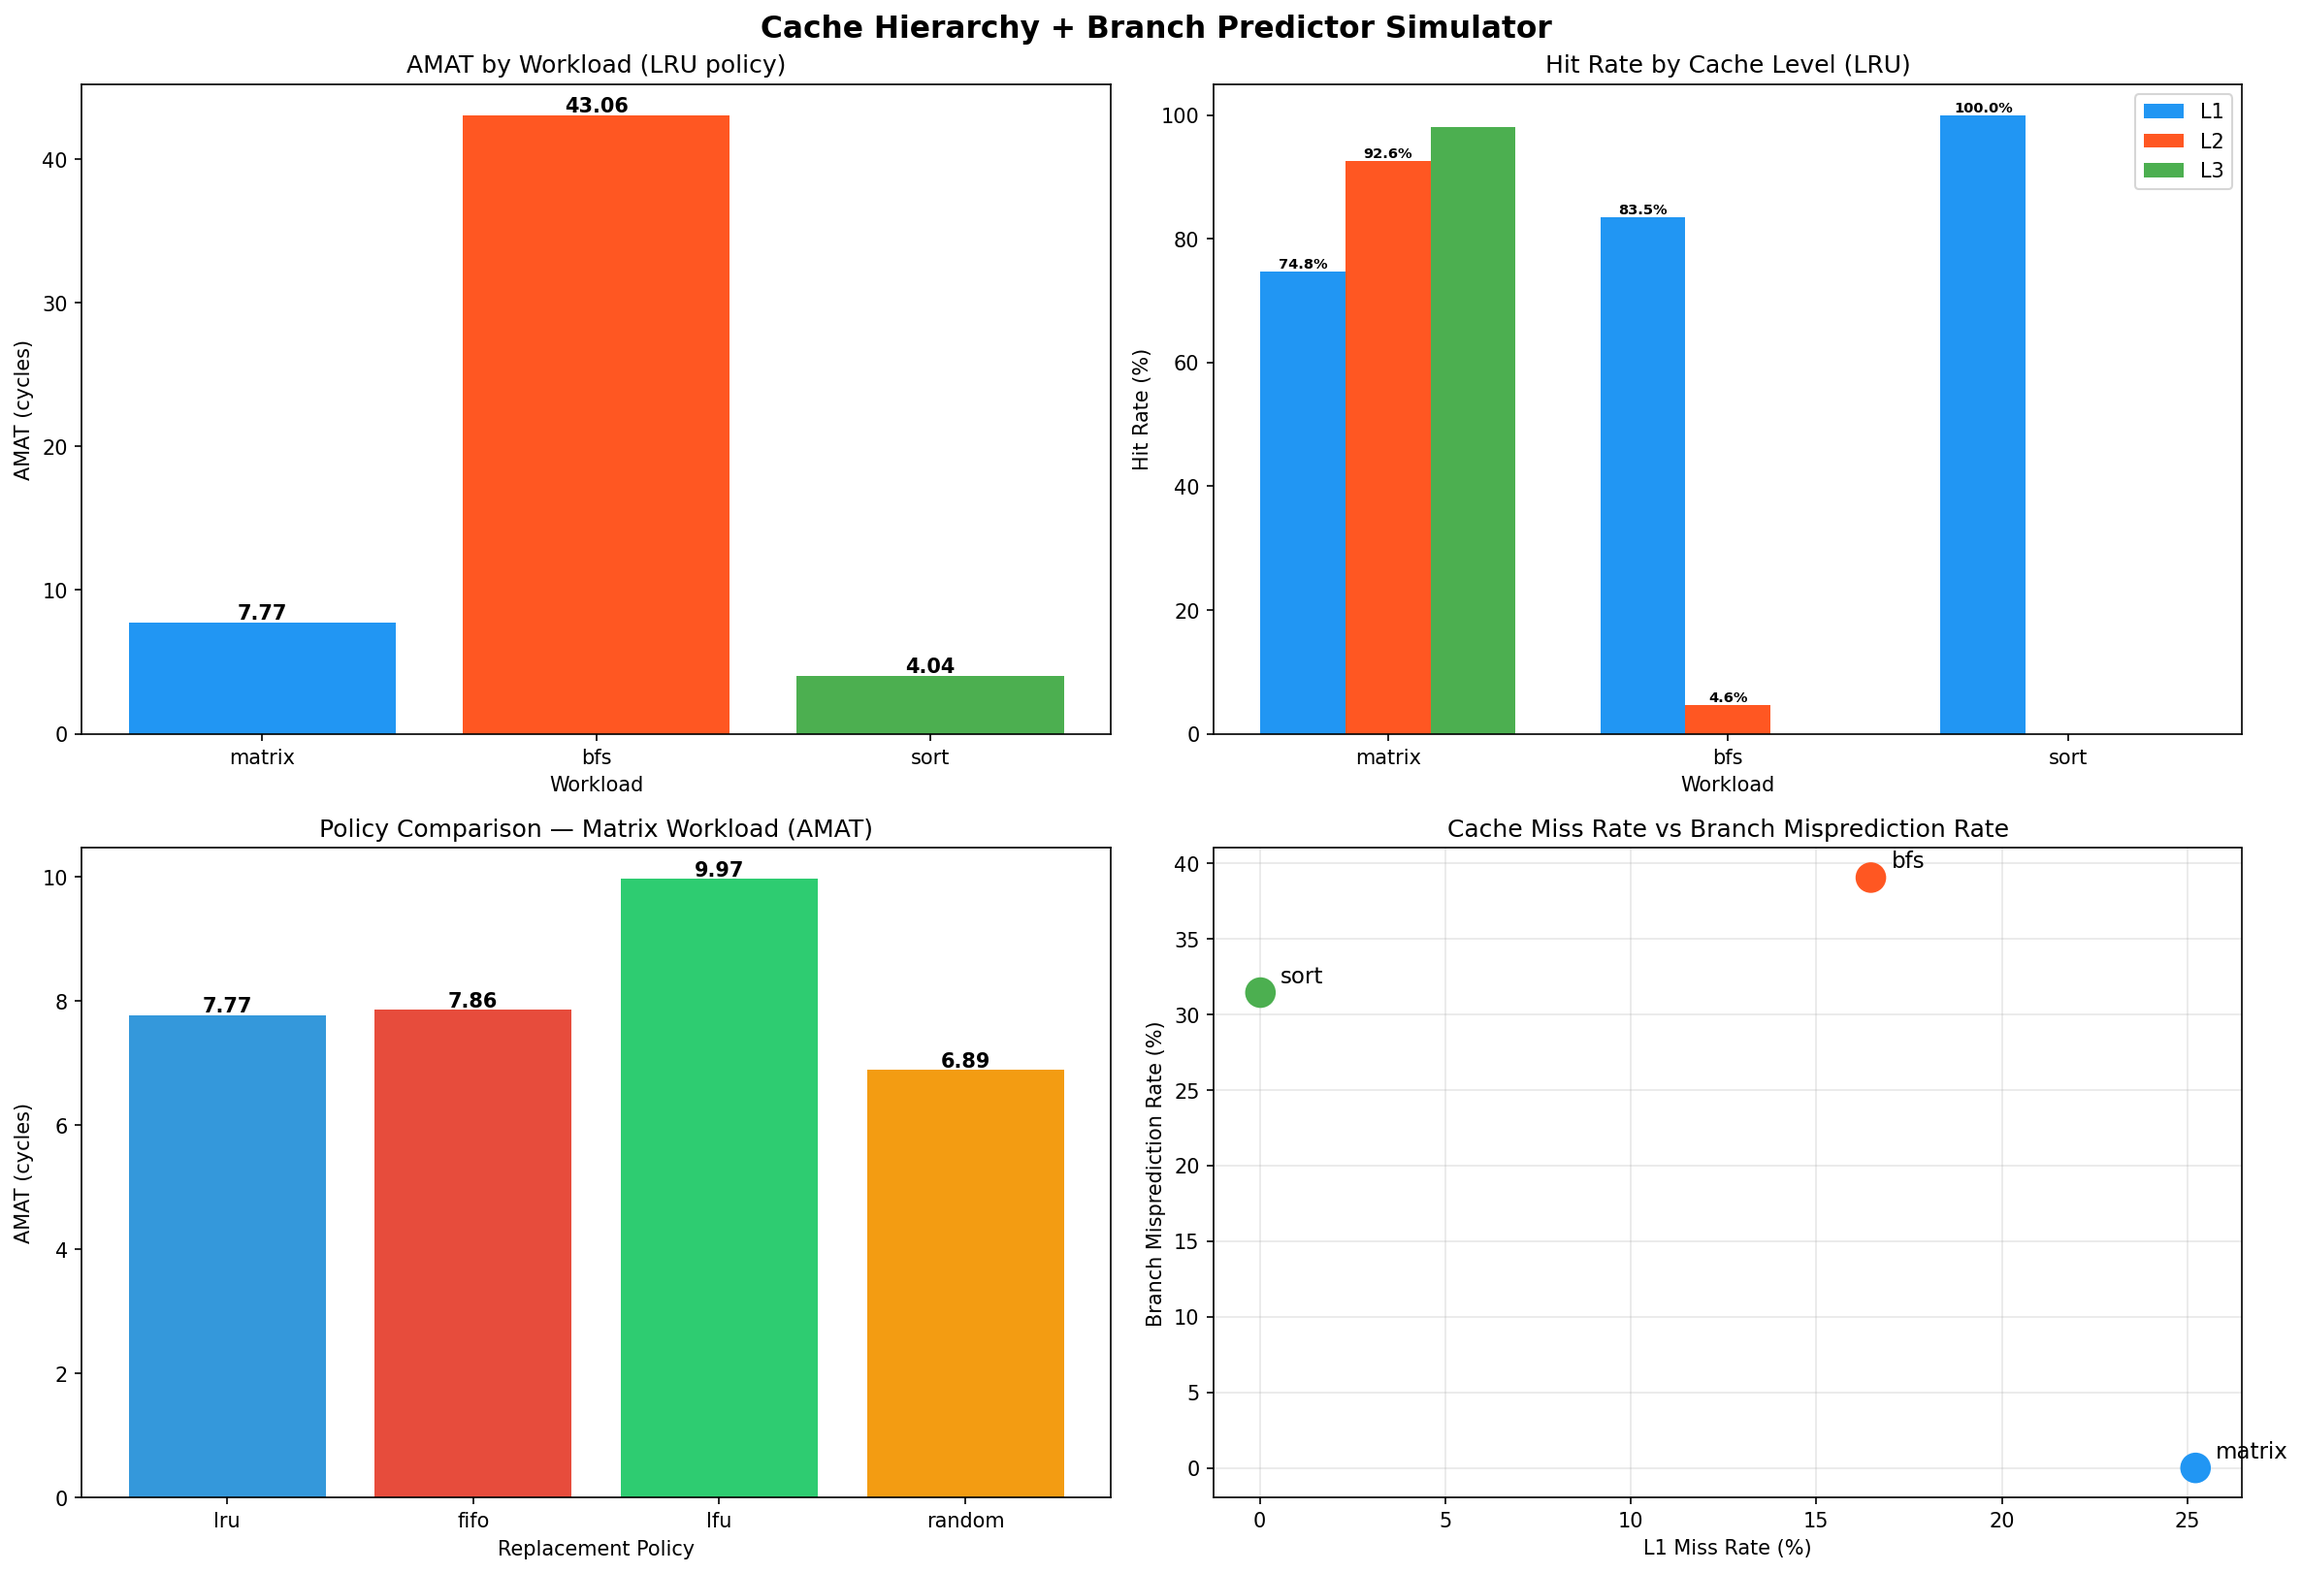
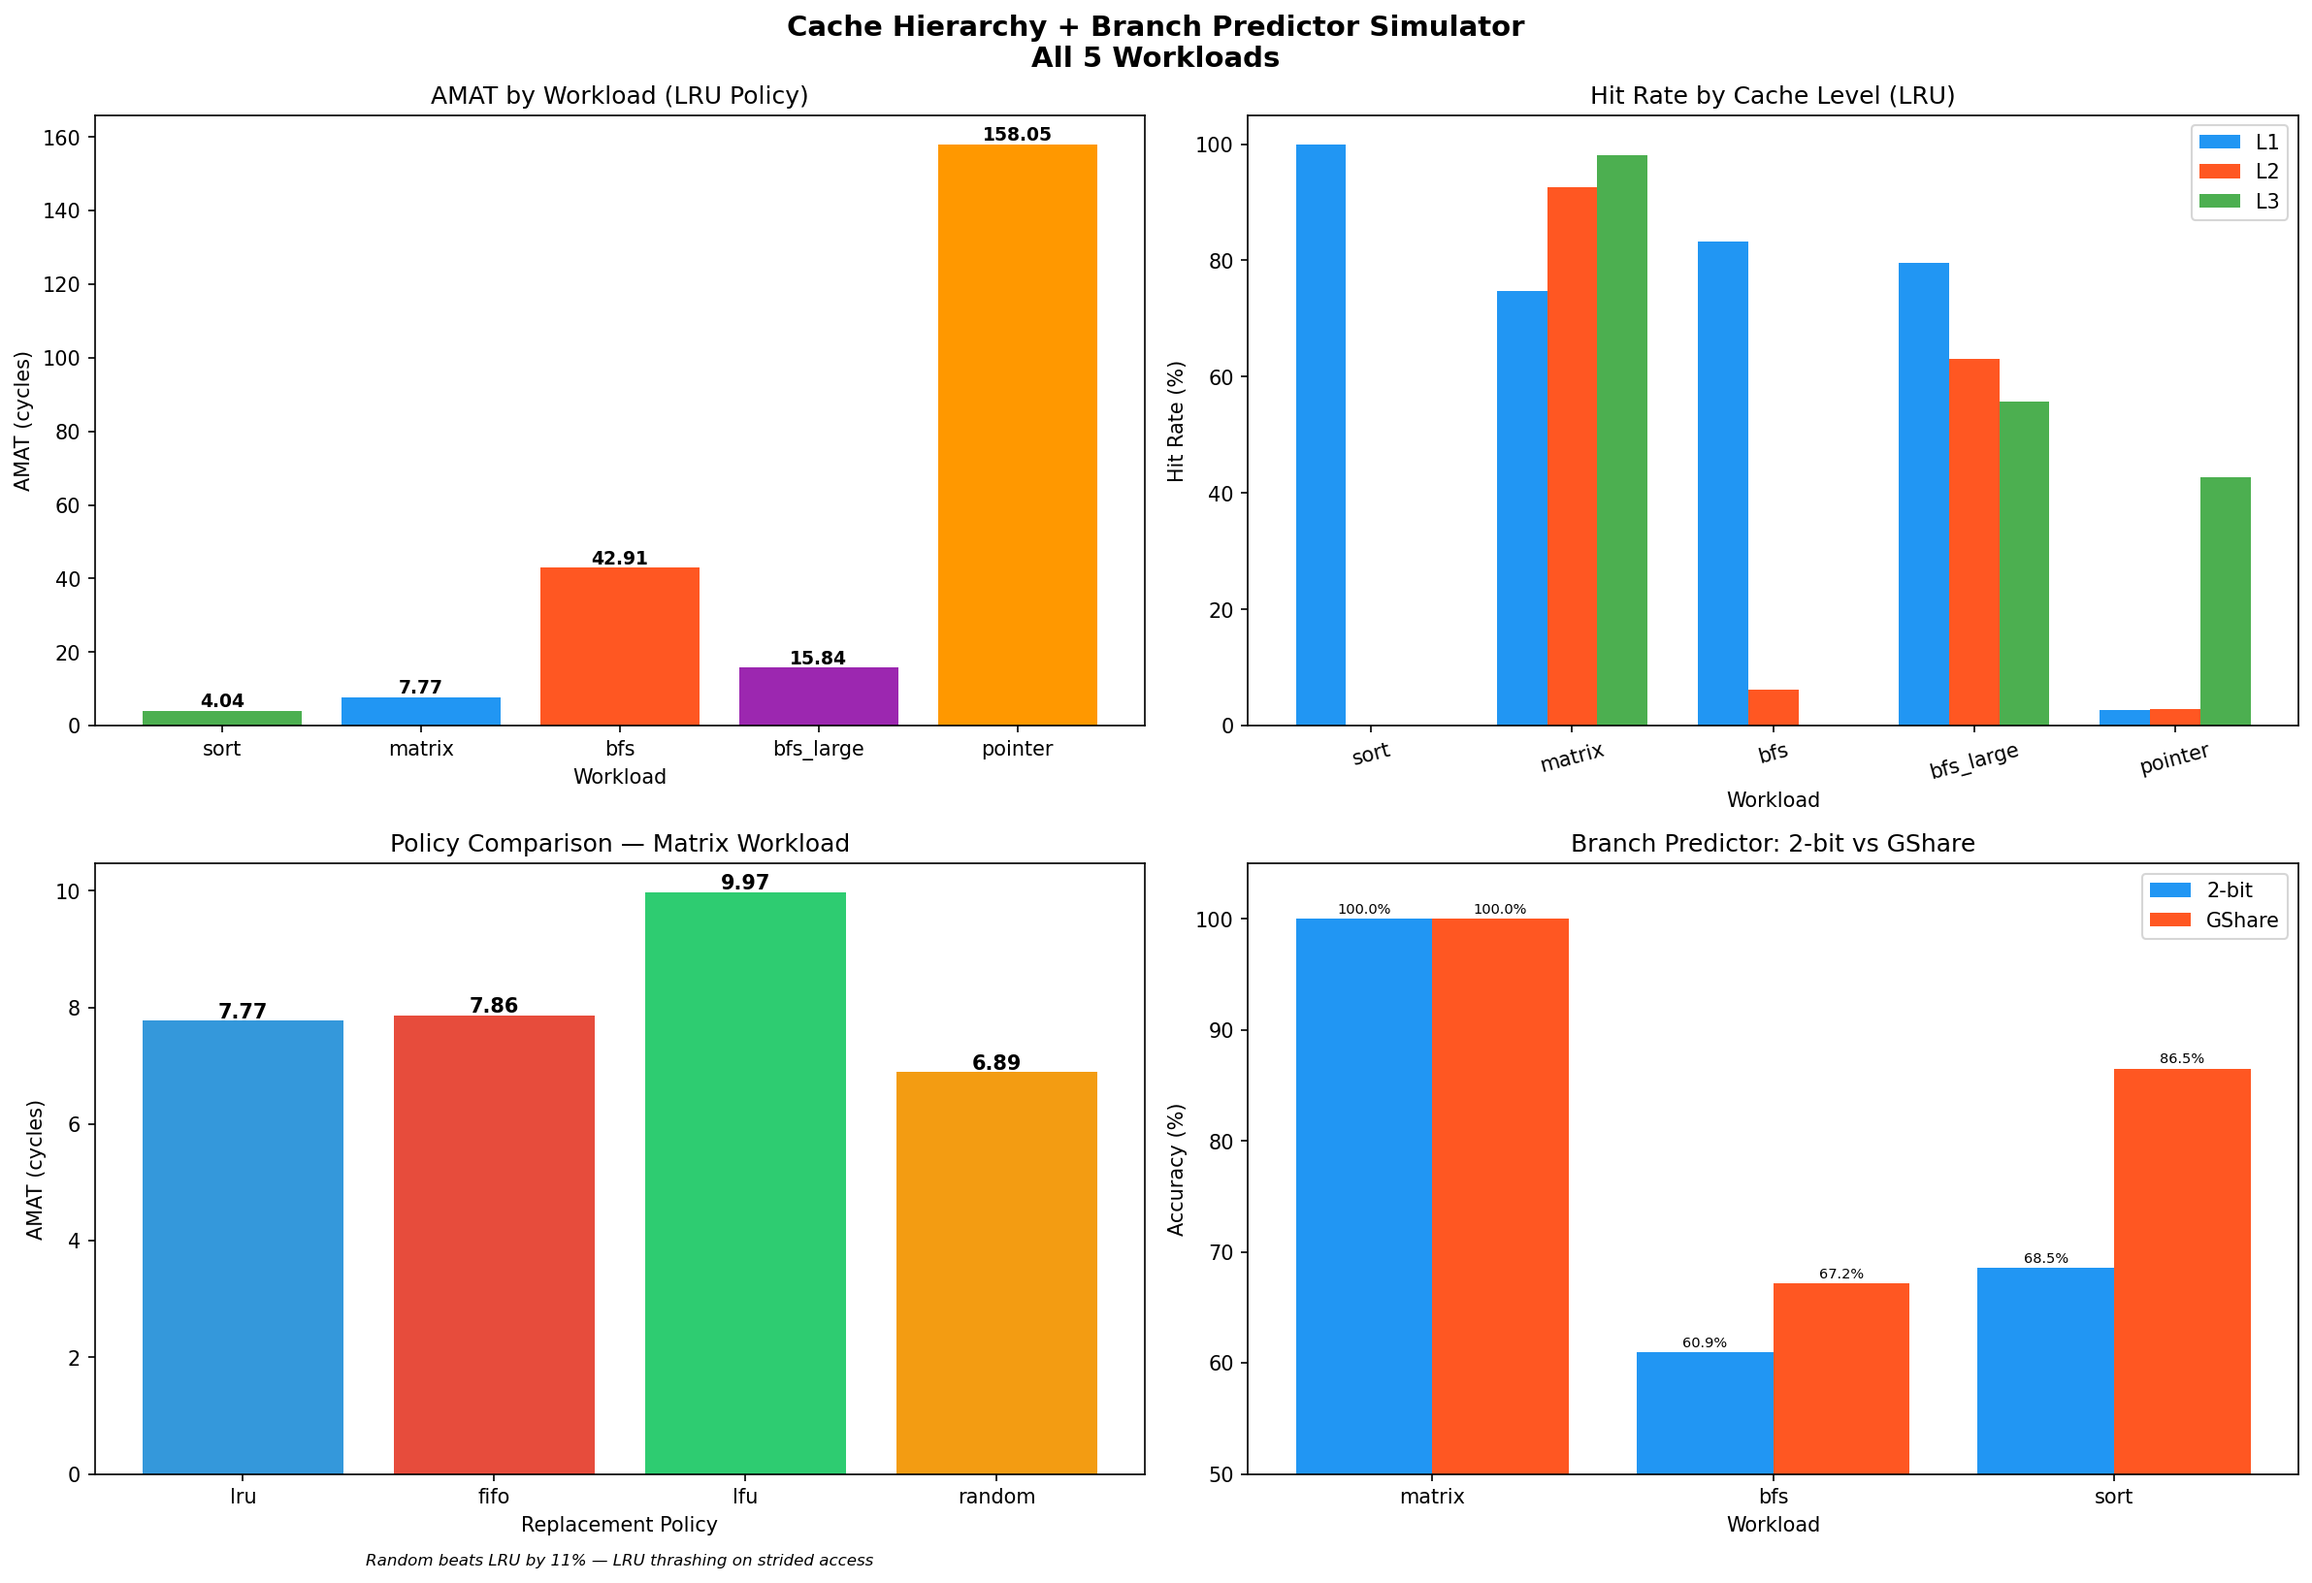
Add 5 workloads, GShare comparison graphs, all 3 cache levels active

diff --git a/visualize.py b/visualize.py
@@ -2,7 +2,6 @@ import csv
 import matplotlib.pyplot as plt
 import numpy as np
 
-# Read results
 data = {}
 with open('results.csv') as f:
     reader = csv.DictReader(f)
@@ -18,79 +17,72 @@ with open('results.csv') as f:
             'amat': float(row['amat'])
         }
 
-workloads = ['matrix', 'bfs', 'sort']
+workloads = ['sort', 'matrix', 'bfs', 'bfs_large', 'pointer']
 policies  = ['lru', 'fifo', 'lfu', 'random']
-colors    = ['#2196F3', '#FF5722', '#4CAF50']
+colors    = ['#4CAF50', '#2196F3', '#FF5722', '#9C27B0', '#FF9800']
 pol_colors= ['#3498db', '#e74c3c', '#2ecc71', '#f39c12']
 
 fig, axes = plt.subplots(2, 2, figsize=(16, 11))
-fig.suptitle('Cache Hierarchy + Branch Predictor Simulator',
-             fontsize=15, fontweight='bold')
+fig.suptitle('Cache Hierarchy + Branch Predictor Simulator\nAll 5 Workloads',
+             fontsize=14, fontweight='bold')
 
-# Graph 1 — AMAT by workload (LRU only)
+# Graph 1 — AMAT by workload (LRU)
 amat_vals = [data[w]['lru']['amat'] for w in workloads]
-axes[0][0].bar(workloads, amat_vals, color=colors)
-axes[0][0].set_title('AMAT by Workload (LRU policy)')
+bars = axes[0][0].bar(workloads, amat_vals, color=colors)
+axes[0][0].set_title('AMAT by Workload (LRU Policy)')
 axes[0][0].set_ylabel('AMAT (cycles)')
 axes[0][0].set_xlabel('Workload')
 for i, v in enumerate(amat_vals):
-    axes[0][0].text(i, v + 0.2, f'{v}', ha='center', fontweight='bold')
+    axes[0][0].text(i, v + 1, f'{v}', ha='center', fontweight='bold', fontsize=9)
 
-# Graph 2 — L1, L2, L3 hit rates side by side (LRU only)
+# Graph 2 — L1/L2/L3 hit rates
 x = np.arange(len(workloads))
 width = 0.25
-l1_rates = [data[w]['lru']['l1'] for w in workloads]
-l2_rates = [data[w]['lru']['l2'] for w in workloads]
-l3_rates = [data[w]['lru']['l3'] for w in workloads]
+l1 = [data[w]['lru']['l1'] for w in workloads]
+l2 = [data[w]['lru']['l2'] for w in workloads]
+l3 = [data[w]['lru']['l3'] for w in workloads]
 
-bars1 = axes[0][1].bar(x - width, l1_rates, width, label='L1', color='#2196F3')
-bars2 = axes[0][1].bar(x,         l2_rates, width, label='L2', color='#FF5722')
-bars3 = axes[0][1].bar(x + width, l3_rates, width, label='L3', color='#4CAF50')
+axes[0][1].bar(x - width, l1, width, label='L1', color='#2196F3')
+axes[0][1].bar(x,         l2, width, label='L2', color='#FF5722')
+axes[0][1].bar(x + width, l3, width, label='L3', color='#4CAF50')
 axes[0][1].set_title('Hit Rate by Cache Level (LRU)')
 axes[0][1].set_ylabel('Hit Rate (%)')
 axes[0][1].set_xlabel('Workload')
 axes[0][1].set_xticks(x)
-axes[0][1].set_xticklabels(workloads)
+axes[0][1].set_xticklabels(workloads, rotation=15)
 axes[0][1].legend()
-for bar in bars1:
-    h = bar.get_height()
-    if h > 0:
-        axes[0][1].text(bar.get_x()+bar.get_width()/2, h+0.5,
-                        f'{h:.1f}%', ha='center', fontsize=7, fontweight='bold')
-for bar in bars2:
-    h = bar.get_height()
-    if h > 0:
-        axes[0][1].text(bar.get_x()+bar.get_width()/2, h+0.5,
-                        f'{h:.1f}%', ha='center', fontsize=7, fontweight='bold')
 
-# Graph 3 — Policy comparison on matrix (AMAT)
+# Graph 3 — Policy comparison on matrix
 matrix_amats = [data['matrix'][p]['amat'] for p in policies]
 axes[1][0].bar(policies, matrix_amats, color=pol_colors)
-axes[1][0].set_title('Policy Comparison — Matrix Workload (AMAT)')
+axes[1][0].set_title('Policy Comparison — Matrix Workload')
 axes[1][0].set_ylabel('AMAT (cycles)')
 axes[1][0].set_xlabel('Replacement Policy')
 for i, v in enumerate(matrix_amats):
     axes[1][0].text(i, v + 0.05, f'{v}', ha='center', fontweight='bold')
+axes[1][0].text(0.5, -0.15,
+    'Random beats LRU by 11% — LRU thrashing on strided access',
+    ha='center', transform=axes[1][0].transAxes,
+    fontsize=8, style='italic')
 
-# Graph 4 — Branch predictor accuracy
+# Graph 4 — Branch predictor comparison
 branch_workloads  = ['matrix', 'bfs', 'sort']
-branch_accuracies = [100.00, 60.94, 68.55]
-miss_rates = [100 - data[w]['lru']['l1'] for w in workloads]
-
-axes[1][1].scatter(miss_rates,
-                   [100 - a for a in branch_accuracies],
-                   color=colors, s=200, zorder=5)
-for i, w in enumerate(workloads):
-    axes[1][1].annotate(w,
-                        (miss_rates[i], 100 - branch_accuracies[i]),
-                        textcoords="offset points",
-                        xytext=(10, 5), fontsize=11)
-axes[1][1].set_title('Cache Miss Rate vs Branch Misprediction Rate')
-axes[1][1].set_xlabel('L1 Miss Rate (%)')
-axes[1][1].set_ylabel('Branch Misprediction Rate (%)')
-axes[1][1].grid(True, alpha=0.3)
+bit2_acc  = [99.99, 60.93, 68.55]
+gshare_acc = [99.99, 67.18, 86.52]
+x2 = np.arange(len(branch_workloads))
+axes[1][1].bar(x2 - 0.2, bit2_acc,   0.4, label='2-bit',  color='#2196F3')
+axes[1][1].bar(x2 + 0.2, gshare_acc, 0.4, label='GShare', color='#FF5722')
+axes[1][1].set_title('Branch Predictor: 2-bit vs GShare')
+axes[1][1].set_ylabel('Accuracy (%)')
+axes[1][1].set_xlabel('Workload')
+axes[1][1].set_xticks(x2)
+axes[1][1].set_xticklabels(branch_workloads)
+axes[1][1].legend()
+axes[1][1].set_ylim(50, 105)
+for i, (a, b) in enumerate(zip(bit2_acc, gshare_acc)):
+    axes[1][1].text(i - 0.2, a + 0.5, f'{a:.1f}%', ha='center', fontsize=7)
+    axes[1][1].text(i + 0.2, b + 0.5, f'{b:.1f}%', ha='center', fontsize=7)
 
 plt.tight_layout()
 plt.savefig('results.png', dpi=150, bbox_inches='tight')
 print("Graph saved to results.png")
-
